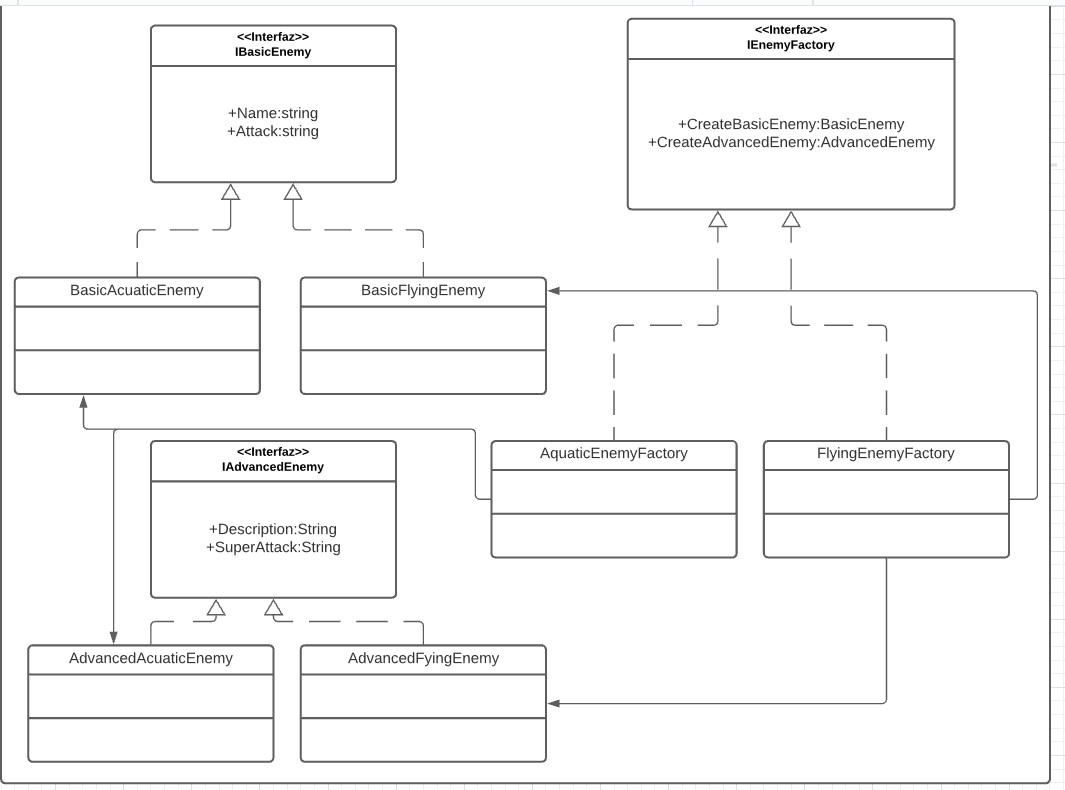
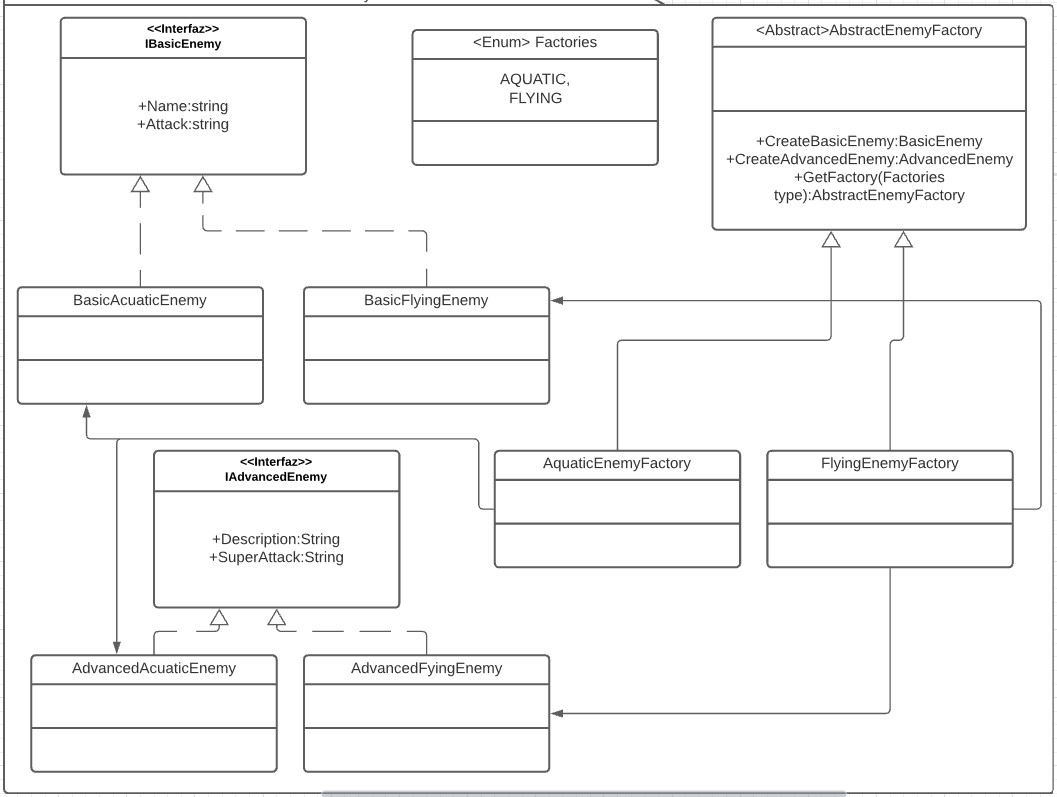
Se agrego el método getFactory y cambio de interfaz a clase abstracta

diff --git a/CsAbstractFactory/AbstractFactoryEnemy.cs b/CsAbstractFactory/AbstractFactoryEnemy.cs
@@ -1,0 +1,26 @@
+using System;
+using System.Collections.Generic;
+using System.Linq;
+using System.Text;
+using System.Threading.Tasks;
+
+namespace CsAbstractFactory
+{
+    public abstract class AbstractFactoryEnemy
+    {
+        public abstract IBasicEnemy CreateBasicEnemy();
+        public abstract IAdvancedEnemy CreateAdvancedEnemy();
+        public static AbstractFactoryEnemy getFactory(Factories type)
+        {
+            switch (type)
+            {
+                case Factories.FLYING:
+                    return new FlyingEnemyFactory();
+                case Factories.AQUATIC:
+                    return new AquaticEnemyFactory();
+                default:
+                    return null;
+            }
+        }
+    }
+}

diff --git a/CsAbstractFactory/Program.cs b/CsAbstractFactory/Program.cs
@@ -10,8 +10,8 @@ namespace CsAbstractFactory
     {
         static void Main(string[] args)
         {
-            IEnemyFactory aquaticFactory = new AquaticEnemyFactory();
-            IEnemyFactory flyingFactory = new FlyingEnemyFactory();
+            AbstractFactoryEnemy aquaticFactory = AbstractFactoryEnemy.getFactory(Factories.AQUATIC);
+            AbstractFactoryEnemy flyingFactory = AbstractFactoryEnemy.getFactory(Factories.FLYING);
             IBasicEnemy enemy1 = aquaticFactory.CreateBasicEnemy();
             IBasicEnemy enemy2 = flyingFactory.CreateBasicEnemy();
             IAdvancedEnemy enemy3 = aquaticFactory.CreateAdvancedEnemy();

diff --git a/CsAbstractFactory/AquaticEnemyFactory.cs b/CsAbstractFactory/AquaticEnemyFactory.cs
@@ -6,14 +6,14 @@ using System.Threading.Tasks;
 
 namespace CsAbstractFactory
 {
-    public class AquaticEnemyFactory : IEnemyFactory
+    public class AquaticEnemyFactory : AbstractFactoryEnemy
     {
-        public IAdvancedEnemy CreateAdvancedEnemy()
+        public override IAdvancedEnemy CreateAdvancedEnemy()
         {
             return new AdvancedAquaticEnemy();
         }
 
-        public IBasicEnemy CreateBasicEnemy()
+        public override IBasicEnemy CreateBasicEnemy()
         {
             return new BasicAquaticEnemy();
         }

diff --git a/CsAbstractFactory/FlyingEnemyFactory.cs b/CsAbstractFactory/FlyingEnemyFactory.cs
@@ -6,14 +6,14 @@ using System.Threading.Tasks;
 
 namespace CsAbstractFactory
 {
-    public class FlyingEnemyFactory : IEnemyFactory
+    public class FlyingEnemyFactory : AbstractFactoryEnemy
     {
-        public IAdvancedEnemy CreateAdvancedEnemy()
+        public override IAdvancedEnemy CreateAdvancedEnemy()
         {
             return new AdvancedFlyingEnemy();
         }
 
-        public IBasicEnemy CreateBasicEnemy()
+        public override IBasicEnemy CreateBasicEnemy()
         {
             return new BasicFlyingEnemy();
         }

diff --git a/CsAbstractFactoryTests/AquaticEnemyFactoryTests.cs b/CsAbstractFactoryTests/AquaticEnemyFactoryTests.cs
@@ -11,7 +11,7 @@ namespace CsAbstractFactory.Tests
     [TestClass()]
     public class AquaticEnemyFactoryTests
     {
-        private IEnemyFactory factory;
+        private AbstractFactoryEnemy factory;
         [TestInitialize()]
         public void Initialize()
         {

diff --git a/CsAbstractFactoryTests/FlyingEnemyFactoryTests.cs b/CsAbstractFactoryTests/FlyingEnemyFactoryTests.cs
@@ -11,7 +11,7 @@ namespace CsAbstractFactory.Tests
     [TestClass()]
     public class FlyingEnemyFactoryTests
     {
-        private IEnemyFactory factory;
+        private AbstractFactoryEnemy factory;
         [TestInitialize()]
         public void Initialize()
         {

diff --git a/CsAbstractFactory/Factories.cs b/CsAbstractFactory/Factories.cs
@@ -6,7 +6,9 @@ using System.Threading.Tasks;
 
 namespace CsAbstractFactory
 {
-    class Class1
+    public enum Factories
     {
+        FLYING,
+        AQUATIC
     }
 }
